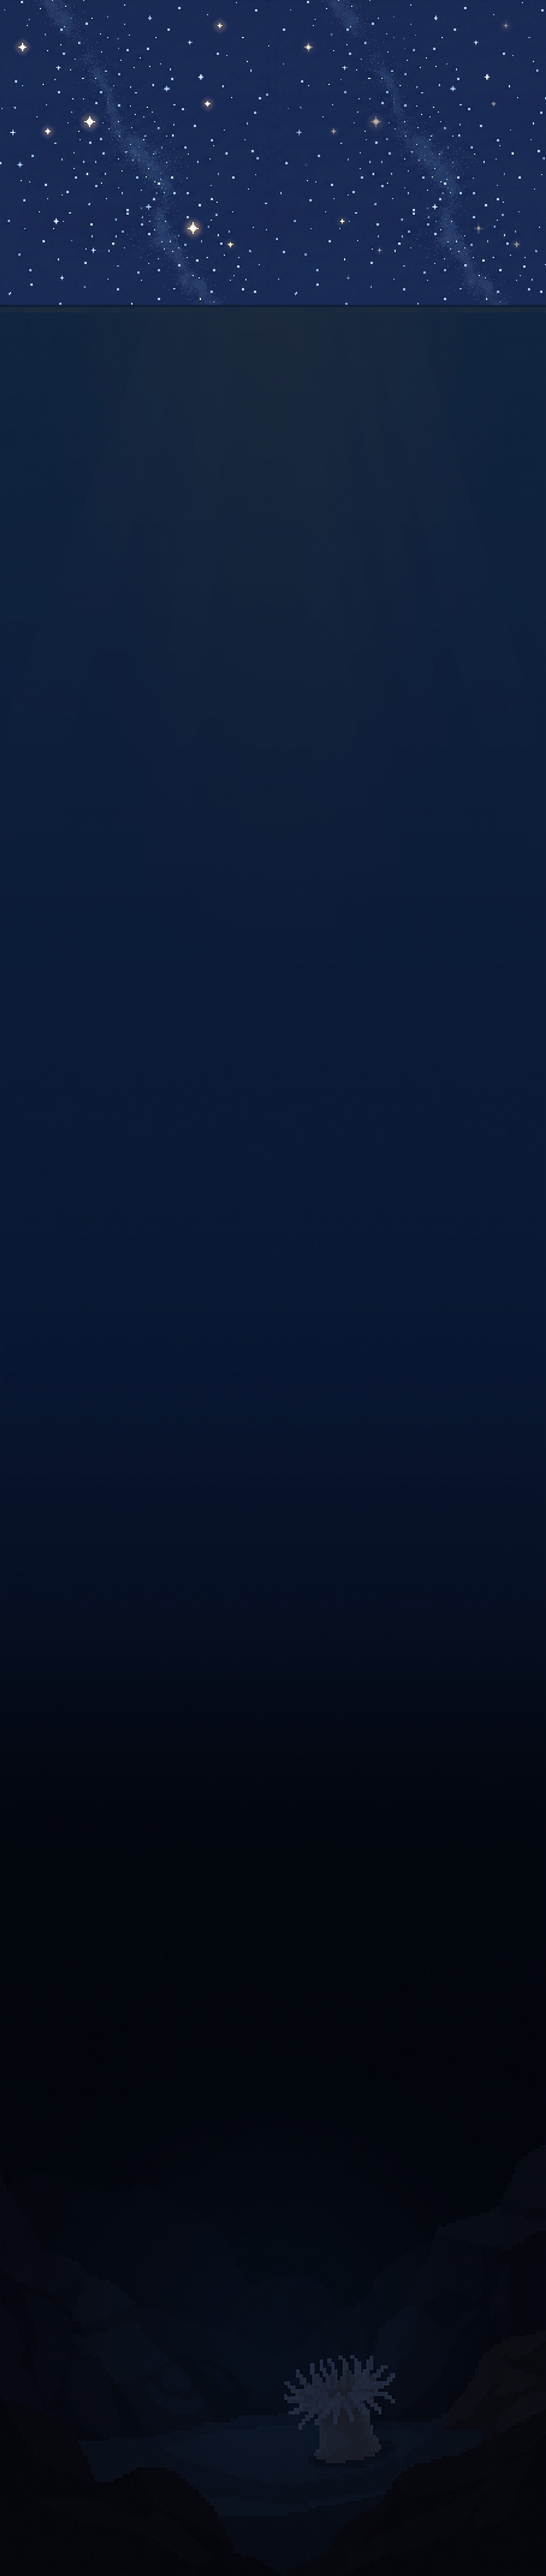
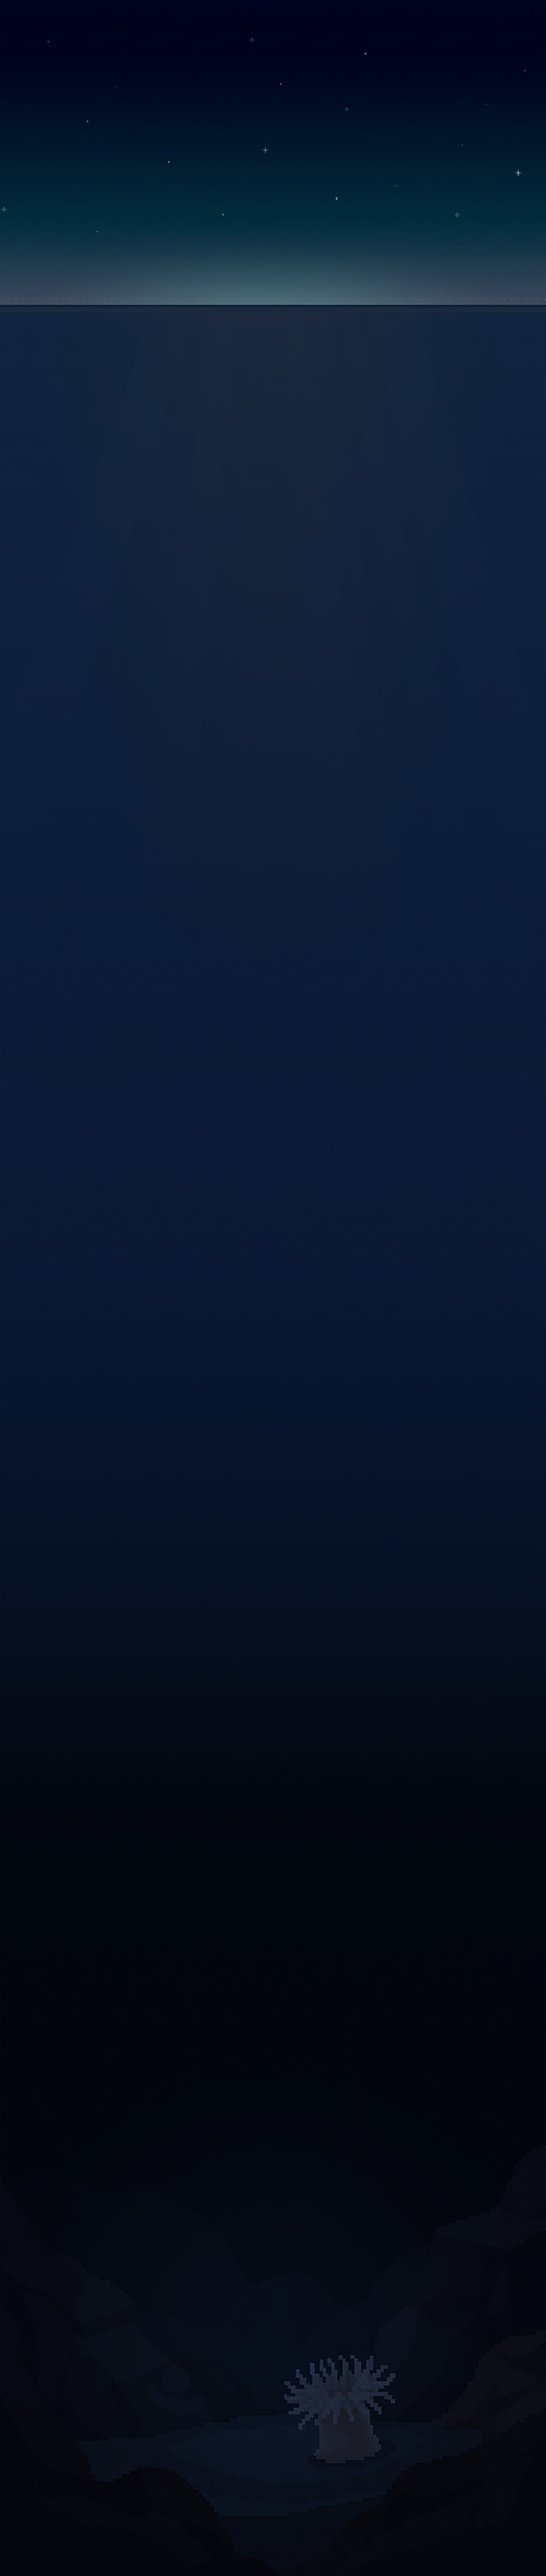
Maneter og djuphavsgjester, NAPP-plakat og måkene som forsvinner nedover
Maneter driver forbi i vannet — glassmanet i alle soner, brennmanet ned til
Dypt. De pulserer med klokka, svaier med strømmen og ligger svakt i miksen
(20–38 %) så fisken beholder hovedrollen.

Fjerne silhuetter på Dypt og Djuphavet: ubåt 1 av 1000 kast, hval 1 av 250.
Ett terningkast per utkast, armert ved kastet og vist når sluken er nede.

Lyd: overflatemiksen følger nå dybden jevnt i stedet for en av/på-bryter.
Måkeloopen stoppes helt når sluken er drøyt halvveis nede og starter igjen
på vei opp. Bølgeskvulpet over vann er dempet 15 %.

NAPP-plakaten spretter opp midt i bildet når fisken hogger, med mild skygge.
Beskjeden mens snøret står ute er flyttet til midten av skjermen i smal spalte.

Rustens agn selges i boks og krukke, men henger nå som ekte agn på kroken.

Dybdebrikkene får ekte luft: bredden følger teksten i stedet for å deles likt,
så «Djuphavet» ikke lenger klemmes mot kantene. Målt på 320–560 px.

Nye nattehimler for nedstigning 3 og 4 — vannlinja ligger fortsatt på rad 894.

Changed region(s): [[0.0, 0.0, 1.0, 0.1246]]

diff --git a/fiske.html b/fiske.html
@@ -89,11 +89,11 @@
   .depthsel{display:flex;gap:6px;background:rgba(18,58,71,.72);padding:5px;border-radius:12px;
     width:min(90%,340px);min-width:0;box-sizing:border-box;justify-content:space-between} /* samme bredde som «Kast ut» (min-width:0 hindrer at teksten sprenger boksen) */
   .depthsel button{border:0;background:transparent;color:#cfe6e2;font-weight:700;padding:9px 6px;border-radius:9px;cursor:pointer;font-size:17px;font-family:var(--font);line-height:1.1;
-    flex:1;min-width:0}
+    flex:1 1 auto;min-width:0;white-space:nowrap} /* auto-basis: bredden følger teksten, resten deles likt */
   .depthsel button small{display:block;font-size:12px;font-weight:600;opacity:.85;margin-top:2px}
   .depthsel button.on{background:var(--paper);color:var(--ink)}
   .depthsel button.locked{opacity:.4}
-  .depthsel.four button{padding:8px 7px;font-size:15px}
+  .depthsel.four button{padding:8px 8px;font-size:15px}
   .depthsel.four button small{font-size:11px}
   #sea.fishing #depthsel,#sea.fishing #potRow{display:none} /* snøret er ute — ned med valgene til fisken er i båten */
   #hud{transition:opacity .45s ease}
@@ -101,6 +101,25 @@
   #sea.fishing #notice{opacity:0;transition:opacity .3s}
   .actionbtn{width:min(90%,340px);box-sizing:border-box;text-align:center;padding-top:19px;padding-bottom:19px;font-size:18px}
   .hint{color:#eaf3ee;font-family:var(--mono);font-size:16px;font-weight:600;text-shadow:0 1px 3px #000a;min-height:20px;text-align:center}
+  /* Mens snøret står ute flytter beskjeden seg til midten av skjermen — smal spalte, klar av fisken nede ved sluken */
+  #hintMid{display:none}
+  #sea.fishing #hintMid{display:block;position:absolute;left:50%;top:50%;transform:translate(-50%,-50%);
+    width:min(14em,72%);z-index:6;pointer-events:none;margin:0;font-size:16px;line-height:1.45;
+    text-shadow:0 2px 6px #000c,0 0 16px #000a}
+  #sea.fishing .bottom #hint{display:none}
+  /* NAPP-plakat: eierens grafikk spretter opp midt i bildet i det fisken hogger (tekst-fallback hvis fila mangler) */
+  #nappSplash{position:absolute;left:50%;top:50%;width:min(86%,460px);z-index:9;pointer-events:none;
+    opacity:0;transform:translate(-50%,-50%) scale(.55);image-rendering:pixelated;
+    filter:drop-shadow(0 7px 9px rgba(0,0,0,.38))} /* mild skygge så plakaten løfter seg fra vannet */
+  #nappSplash.on{animation:nappPop 1.25s cubic-bezier(.2,1.4,.4,1) forwards}
+  @keyframes nappPop{
+    0%{opacity:0;transform:translate(-50%,-50%) scale(.55)}
+    22%{opacity:1;transform:translate(-50%,-50%) scale(1.09)}
+    34%{transform:translate(-50%,-50%) scale(1)}
+    72%{opacity:1;transform:translate(-50%,-50%) scale(1)}
+    100%{opacity:0;transform:translate(-50%,-50%) scale(1.06)}}
+  @media (prefers-reduced-motion:reduce){ #nappSplash.on{animation-duration:1.25s;animation-name:nappFade} }
+  @keyframes nappFade{0%{opacity:0}15%{opacity:1;transform:translate(-50%,-50%) scale(1)}72%{opacity:1;transform:translate(-50%,-50%) scale(1)}100%{opacity:0;transform:translate(-50%,-50%) scale(1)}}
 
   /* Kamp-UI: rund snelle midt på, spenn til venstre og dybde til høyre — i skjermkantene */
   :root{--snelle:min(28vw,117px)} /* snella er nedjustert tre ganger etter tilbakemelding (fra 46vw/190px) */
@@ -205,6 +224,7 @@
     #sea .bottom{gap:4px;padding-bottom:calc(6px + env(safe-area-inset-bottom))}
     #rekModal,#catchModal{padding-bottom:calc(6px + env(safe-area-inset-bottom))}
     .hint{font-size:13px;margin:0}
+    #sea.fishing #hintMid{font-size:15px}
     .actionbtn{padding:11px 18px;font-size:15px} }
   .slot.locked{opacity:.72}
   .slot.locked .nm{color:var(--ink-soft)}
@@ -250,9 +270,9 @@
   /* Mobil: HUD fikk ikke plass til 4 chips + 5 ikoner på én rad → chips rad 1, ikoner rad 2 */
   @media (max-width:520px){
     .depthsel{gap:4px} /* bredden styres av basisregelen — lik «Kast ut» */
-    .depthsel button{flex:1;font-size:19px;padding:12px 3px}
-    .depthsel.four button{font-size:15px;padding:12px 1px}
-    .depthsel.four button small{font-size:13px}
+    .depthsel button{flex:1 1 auto;font-size:19px;padding:12px 8px}
+    .depthsel.four button{font-size:14px;padding:12px 6px}
+    .depthsel.four button small{font-size:12px}
     .depthsel button small{font-size:14px;margin-top:2px}
     #hud{flex-wrap:wrap;gap:6px;padding:8px 8px}
     #hud .chip{padding:8px 11px;font-size:14px}
@@ -264,6 +284,11 @@
     #notice{font-size:18px}
   }
   @media (max-width:389px){ /* 🔥-brikken skal ikke tvinge en tredje HUD-rad på smale telefoner */
+    .depthsel{gap:3px;padding:4px}
+    .depthsel button{font-size:16px;padding:12px 6px}
+    .depthsel button small{font-size:13px}
+    .depthsel.four button{font-size:12px;padding:12px 4px}
+    .depthsel.four button small{font-size:11px}
     #hud .chip{padding:8px 8px}
     #hud .fuel{width:40px}
     #hud #hudStreakChip{padding:0 2px;gap:2px;background:none;box-shadow:none;backdrop-filter:none;
@@ -309,6 +334,8 @@
       <button class="iconbtn" id="toMenu" title="Hjem til naustet"><img src="spill/assets/knapp-naust.png" alt="Hjem" style="max-height:29px;max-width:29px;image-rendering:pixelated" onerror="this.outerHTML='✕'"></button>
     </div>
     <div id="notice"></div>
+    <p class="hint" id="hintMid"></p>
+    <img id="nappSplash" alt="" src="spill/assets/splash-napp.png" onerror="this.dataset.mangler='1'">
     <div class="bottom">
       <p class="hint" id="hint">Velg dybde og kast ut.</p>
       <div id="reelui">
@@ -507,7 +534,8 @@ var Snd=(function(){
   function startLoop(name){ var c=AC(),L=loops[name]; if(!c||!L||L.node||muted||!L.want)return; var buf=buffers[name]; if(!buf)return;
     var s=c.createBufferSource(); s.buffer=buf; s.loop=true; var g=c.createGain(); g.gain.value=L.vol; s.connect(g); g.connect(c.destination); try{s.start()}catch(e){} L.node={s:s,g:g}; }
   function stopLoop(name){ var L=loops[name]; if(L&&L.node){ try{L.node.s.stop()}catch(e){} L.node=null; } }
-  var regnNa=false, dykket=false; // vær- og dykketilstand styrer miksen
+  var regnNa=false, dykket=false, dypNa=0; // vær- og dykketilstand styrer miksen (dypNa: hvor langt nede sluken er, 0–1)
+  var HAV=0.187, HAV_REGN=0.085; // bølgeskvulpet over vann — dempet 15 % etter tilbakemelding
   function wantLoop(name,on){ var L=loops[name]; if(!L)return; L.want=on; if(on)startLoop(name); else stopLoop(name); }
   function oneShot(name){ var c=AC(),o=ONESHOT[name]; if(!c||!o||muted)return; var buf=buffers[name]; if(!buf)return;
     var s=c.createBufferSource(); s.buffer=buf; var g=c.createGain(); g.gain.value=o.vol; s.connect(g); g.connect(c.destination); try{s.start()}catch(e){} }
@@ -521,10 +549,10 @@ var Snd=(function(){
     unlock:function(){ var c=AC(); if(c&&c.state!=="running"){try{c.resume()}catch(e){}} loadAll(); },
     isMuted:function(){return muted;},
     setMuted:function(m){ muted=m; try{localStorage.setItem("storkveita-muted",m?"1":"0")}catch(e){}; if(theme)theme.muted=m; if(m){stopAllLoops(); motorStop(0);} else restartWanted(); },
-    ambienceOn:function(){ loadAll(); dykket=false; this.settLoopVol("sea",regnNa?0.10:0.22); this.settLoopVol("bird",0.22); wantLoop("sea",true); wantLoop("bird",true); },
+    ambienceOn:function(){ loadAll(); dykket=false; dypNa=0; this.settLoopVol("sea",regnNa?HAV_REGN:HAV); this.settLoopVol("bird",0.22); wantLoop("sea",true); wantLoop("bird",true); },
     ambienceOff:function(){ dykket=false; wantLoop("sea",false); wantLoop("bird",false); wantLoop("undervann",false); wantLoop("reel",false); wantLoop("regn",false); wantLoop("vindL",false); },
     vaerLyd:function(regnOn,vindOn){ loadAll(); wantLoop("regn",!!regnOn); wantLoop("vindL",!!vindOn); regnNa=!!regnOn;
-      if(!dykket)this.settLoopVol("sea", regnOn?0.10:0.22); }, // regnet skal eie lydbildet i uvær (men undervann eier det enda mer)
+      if(!dykket)this.settLoopVol("sea", regnOn?HAV_REGN:HAV); }, // regnet skal eie lydbildet i uvær (men undervann eier det enda mer)
     torden:function(){ var c=["torden1","torden2","torden3"].filter(function(k){return buffers[k]}); if(c.length)oneShot(c[(Math.random()*c.length)|0]); },
     munnspill:function(){ var c=["munnspill1","munnspill2"].filter(function(k){return buffers[k]}); if(c.length)oneShot(c[(Math.random()*c.length)|0]); },
     reelSound:function(on){ wantLoop("reel",!!on); },
@@ -532,14 +560,23 @@ var Snd=(function(){
     settLoopVol:function(name,vol){ var L=loops[name]; if(!L)return; L.vol=vol; if(L.node&&L.node.g)L.node.g.gain.value=vol; },
     fadeLoopVol:function(name,vol,sek){ var L=loops[name], c=AC(); if(!L)return; L.vol=vol;
       if(L.node&&L.node.g&&c){ try{ L.node.g.gain.setTargetAtTime(vol,c.currentTime,Math.max(0.08,sek||0.8)/3); }catch(e){ L.node.g.gain.value=vol; } } },
-    dykk:function(ned){ ned=!!ned; if(ned===dykket)return; dykket=ned; loadAll(); // sluken går i vannet: over vann tones ned, undervannslyden opp
-      this.fadeLoopVol("sea",  ned?0.05:(regnNa?0.10:0.22), 1.0);
-      this.fadeLoopVol("bird", ned?0.02:0.22, 1.0);
-      if(ned){ wantLoop("undervann",true); var L=loops.undervann, c=AC();
-        if(L.node&&L.node.g&&c){ try{ L.node.g.gain.setValueAtTime(0.0001,c.currentTime); }catch(e){} }
-        this.fadeLoopVol("undervann",0.34,1.4); }
-      else { this.fadeLoopVol("undervann",0.0001,0.9);
-        setTimeout(function(){ if(!dykket)wantLoop("undervann",false); },1200); } },
+    // Sluken synker: overflatelyden tones ned og undervannslyden opp — jevnt med dybden, ikke som en bryter.
+    // Måkene er HELT borte (loopen stoppes) når sluken er drøyt halvveis nede; de kommer tilbake når du sveiver opp.
+    dykk:function(ned,dyp){ ned=!!ned;
+      dyp = ned ? Math.max(0,Math.min(1, dyp||0)) : 0;
+      if(ned!==dykket){ dykket=ned; loadAll(); dypNa=-1;
+        if(ned){ wantLoop("undervann",true); var L=loops.undervann, c=AC();
+          if(L.node&&L.node.g&&c){ try{ L.node.g.gain.setValueAtTime(0.0001,c.currentTime); }catch(e){} } }
+        else { this.fadeLoopVol("undervann",0.0001,0.9);
+          setTimeout(function(){ if(!dykket)wantLoop("undervann",false); },1200); } }
+      if(Math.abs(dyp-dypNa)<0.02)return;
+      dypNa=dyp;
+      var over=Math.max(0,1-dyp/0.55), maake=0.22*over*over;
+      var havOver=regnNa?HAV_REGN:HAV;
+      this.fadeLoopVol("sea", havOver+(0.045-havOver)*dyp, 0.5);
+      this.fadeLoopVol("bird", maake, 0.5);
+      wantLoop("bird", maake>0.004);
+      if(ned)this.fadeLoopVol("undervann", 0.05+0.29*dyp, 0.6); },
     themeOn:function(){ if(!theme){ theme=new Audio("spill/lyd/lobby-tema.mp3"); theme.loop=true; theme.volume=0.45; } theme.muted=muted; theme.play().catch(function(){}); },
     themeOff:function(){ if(theme)theme.pause(); },
     click:function(){ if(buffers.klikk1||buffers.klikk2){ altClick=!altClick; oneShot(altClick&&buffers.klikk1?"klikk1":"klikk2"); } else beep(430,0.05,"square",0.05,320); },
@@ -679,9 +716,15 @@ function agnDagsStatus(){ // Rusten går tom for én type og setter en annen på
 function agnPris(a){ return agnDagsStatus().salg===a.k?Math.max(5,Math.round(a.pris*0.7/5)*5):a.pris; }
 function bildeFil(n){ return n.indexOf(".")>=0?n:n+".png"; } // gif-er oppgis med endelse
 var rigImg={}; // sluk-/agnbilder til tegning på snøret (lastes ved behov)
+// Rusten selger agnet i boks og krukke — men det er innholdet som skal henge på kroken.
+// Mangler kroken-varianten, faller vi tilbake til butikkbildet (auto-plugg når eier lager fila).
+var KROKAGN={rustenspesial:"agn-rusten-spesial-paa-kroken",rustensuper:"agn-rusten-super-paa-kroken"};
 function rigBilde(){ var a=(typeof aktivAgn==="function")&&aktivAgn(), u=(typeof aktivSluk==="function")&&aktivSluk();
-  var fil=a?bildeFil(agnImg(a)):(u?bildeFil(u.img):null); if(!fil)return null;
-  if(!rigImg[fil]){ var im=new Image(); im.src="spill/assets/"+fil; rigImg[fil]=im; }
+  var fil=a?bildeFil(KROKAGN[a.k]||agnImg(a)):(u?bildeFil(u.img):null); if(!fil)return null;
+  if(!rigImg[fil]){ var im=new Image();
+    if(a&&KROKAGN[a.k]){ var res="spill/assets/"+bildeFil(agnImg(a));
+      im.onerror=function(){ this.onerror=null; this.src=res; }; }
+    im.src="spill/assets/"+fil; rigImg[fil]=im; }
   var b=rigImg[fil]; return (b.complete&&b.naturalWidth)?b:null; }
 function aktivAgn(){ return P&&P.rig&&P.rig!=="sluk"?agnDef[P.rig]:null; }
 function rigNavn(){ var a=aktivAgn(); if(a)return a.n; var u=aktivSluk(); return u?u.n:"Sluk"; }
@@ -853,7 +896,13 @@ var boatIn=1, fisherT=1; // intro i sjøen: båten glir på plass (0→1), så k
 var flee=null; // mistet fisk som stikker av før kameraet går hjem
 var serpent=null, serpentCd=0; // påskeegg: sjøormen — et ultrasjeldent glimt langt der nede i Dypt
 
-function setHint(t){msg=t; $("#hint").textContent=t}
+function setHint(t){msg=t; $("#hint").textContent=t; var m=$("#hintMid"); if(m)m.textContent=t;}
+function nappKlar(){ var i=$("#nappSplash"); return !!(i && !i.dataset.mangler && i.complete && i.naturalWidth); }
+var nappT=null;
+function visNapp(){ var i=$("#nappSplash"); if(!i)return;
+  i.classList.remove("on"); void i.offsetWidth;
+  i.classList.add("on"); clearTimeout(nappT);
+  nappT=setTimeout(function(){ i.classList.remove("on"); },1300); }
 var nysCool=20; // første nys tidligst etter 20 s i båten
 function erfaren(){ if(!P||!P.caught)return false; var n=0; for(var k in P.caught){ n+=(P.caught[k]&&P.caught[k].count)||0; if(n>=20)return true; } return false; }
 var noticeT=null;
@@ -880,7 +929,7 @@ function setDepth(d){
   if(d===3){ if(!vinsjKlar())return;
     if(!P.vinsj){ setHint("Vinsj og dyphavsrigg trengs for djuphavet (300–500 m) — kjøp i butikken 🛒"); return; } }
   else if(d>P.rod){ setHint(RODS[d].n+" trengs for "+ZONE[d].toLowerCase()+" ("+DEPM[d]+") — kjøp i butikken 🛒"); return; }
-  depth=d; camY=camHome(); // ny sone → vannlinja på samme skjermhøyde
+  depth=d; camY=camHome(); maneter.length=0; silh=null; silhKlar=null; // ny sone → vannlinja på samme skjermhøyde, og drivgodset hører til forrige sone
   updateRigChip();
   document.querySelectorAll("#depthsel button").forEach(function(x){x.classList.toggle("on",+x.dataset.d===d)});
   if(phase==="idle") setHint(erfaren()?"":ZONE[d]+" "+DEPM[d]+" valgt. Kast ut.");
@@ -974,7 +1023,7 @@ function cast(){
   else if(smorPct()<=0 && P.svc%45===11) notice("Skroget er begrodd og drar ekstra bensin — bunnsmørning hos Propell-Kjell 🐚");
   else if(Date.now()>P.havnNeste && P.svc%45===22) notice("Ørnes Båtforening purrer på havneavgiften ⚓ (betal hos Propell-Kjell)");
   P.fuel-=needF; hud(); saveAll(); Snd.cast(); castT=0.45; // ETT kast-animasjon
-  phase="sink"; descend=0;
+  phase="sink"; descend=0; rullSilhuett();
   var g=colGeom(), mn=Math.min(W,H);
   if(g){ lureW=g.wl+mn*0.05; lureTargetW=g.imgH*LTF[depth]-mn*0.04; // fra rett under overflata → like over bunn-dekoren
     camBottom=Math.min(g.maxScroll, Math.max(camHome(), lureTargetW-H*0.56));
@@ -1116,7 +1165,9 @@ function commitBite(){
   var ag=aktivAgn(); if(ag){ P.agn[ag.k]=Math.max(0,(P.agn[ag.k]||0)-1); updateRigChip(); hookedSuper=!!ag.superLegend; } else hookedSuper=false; // fisken tok agnet — brukt uansett utfall
   hooked=cf; hookedLen=(sceneFish&&sceneFish.sizeLen)||Math.round(rnd(cf.len[0],cf.len[1])); phase="bite"; hookWindow=1.6;
   if(!sceneFish)sceneFish={f:cf,x:(lureSX/W)||0.5,y:lureTargetY}; else sceneFish.committing=true;
-  setHint(erfaren()?"":"NAPP! Hold inne snella og dra inn! 🐟"); setAction("SVEIV (hold)",true); Snd.bite();
+  if(nappKlar()){ visNapp(); setHint(""); }
+  else setHint(erfaren()?"":"NAPP! Hold inne snella og dra inn! 🐟");
+  setAction("SVEIV (hold)",true); Snd.bite();
   if(navigator.vibrate)navigator.vibrate(30);
 }
 var hookFace=false, storjeTried=false, runT=0, runPow=0, hookedLen=0, hookedSuper=false; // + utras + kroket lengde + superagn-bedøvelse
@@ -2148,6 +2199,17 @@ var buoyGull=null; // måke som tar seg en pust på en av blåsene
 var bubbleImg=[]; for(var _bi=1;_bi<=8;_bi++){ var _bm=new Image(); _bm.src="spill/assets/luftboble-"+_bi+".png"; bubbleImg.push(_bm); }
 var bubbles=[]; // små luftbobler som stiger (som snø, motsatt vei)
 var dogImg=[]; ["glad","kikker","tenker"].forEach(function(n){ var im=new Image(); im.src="spill/assets/hund-blindpassasjer-"+n+".png"; dogImg.push(im); });
+// DRIVENDE MANETER + FJERNE SILHUETTER: rein stemning, ingen spillmekanikk (kan aldri kroke eller skremme fisk)
+var MANET=[{k:"drift-glassmanet",z:[0,1,2,3],w:1.0,br:0.058,puls:0.08},
+           {k:"drift-brennmanet",z:[0,1,2],  w:0.55,br:0.050,puls:0.05}];
+var manetImg={};
+MANET.forEach(function(m){ var im=new Image(); im.onerror=function(){}; im.src="spill/assets/"+m.k+".png"; manetImg[m.k]=im; });
+var maneter=[];
+var SILH=[{k:"silhuett-ubaat",z:[2,3],br:0.50,op:0.34,sjanse:1/1000,hoyre:true},
+          {k:"silhuett-hval", z:[2,3],br:0.62,op:0.26,sjanse:1/250}];
+var silhImg={};
+SILH.forEach(function(x){ var im=new Image(); im.onerror=function(){}; im.src="spill/assets/"+x.k+".png"; silhImg[x.k]=im; });
+var silh=null, silhKlar=null;
 function newFlyGull(yMin,yMax){ var dir=Math.random()<0.5?1:-1, far=Math.random()<0.5; // «far» = mindre + svakere opasitet → ser lengre bak ut (dybde)
   return {x:dir<0?1.15:-0.15, y:yMin+Math.random()*(yMax-yMin), vx:dir*(0.025+Math.random()*0.04), sc:far?0.4+Math.random()*0.2:0.6+Math.random()*0.35, op:far?0.45+Math.random()*0.25:0.92+Math.random()*0.08, ph:Math.random()*8, fr:6+Math.random()*4, glideT:0, flapT:3+Math.random()*5}; }
 function gullFrame(g,dt){ // 4-frames vingeslag, men glir 2–4 s på frame 03 (index 2) av og til
@@ -2233,7 +2295,7 @@ function loop(now){
   else if(fisherT<1) fisherT=Math.min(1,fisherT+dt/0.5);
   if(document.querySelector("#catchModal").classList.contains("on")) liftT+=dt; else liftT=0; // løft-fangst spilles ÉN gang, nullstilles mellom fangster
   if(lgCtx && $("#menu").classList.contains("on")){ lgCtx.clearRect(0,0,lgW,lgH); drawGullField(lgCtx,lgW,lgH,lobbyGulls,dt,lgH*0.06,lgH*0.34,3,lobbySpawn,0); } // måker over tittelen i lobbyen
-  if($("#sea").classList.contains("on")){ drawScene(dt); tegnVaer(dt); snelleSpinn(dt); Snd.dykk(phase!=="idle"); $("#sea").classList.toggle("fishing", phase!=="idle");
+  if($("#sea").classList.contains("on")){ drawScene(dt); tegnVaer(dt); snelleSpinn(dt); Snd.dykk(phase!=="idle", dykkAndel()); $("#sea").classList.toggle("fishing", phase!=="idle");
     if(boatIn>=1&&fisherT>=1){ nysCool-=dt; if(nysCool<=0&&Math.random()<dt/140){ var rl=Math.random();
       if(rl<0.06){ Snd.fiskerFis(); dogShow(1,3); }
       else if(rl<0.40) Snd.fiskerHark();
@@ -2342,10 +2404,14 @@ function drawScene(dt){
     }
   } else buoyGull=null;
   var colTop=Math.max(0,top);
+  // hval/ubåt langt der bak — bakerst av alt i vannet
+  drawSilhuett(dt);
   // små luftbobler som stiger opp gjennom vannet (fader ut før overflata)
   drawBubbles(dt, Math.max(0,wlY), wlY);
   // ambient silhuett-fisk som krysser skjermen (1–5, 40–80 % opasitet)
   drawAmbient(dt,colTop);
+  // maneter driver forbi foran fiskestimen
+  drawManeter(dt);
   if(flee) drawSwim(W*flee.x, flee.wy-camY, flee.f, 0, flee.vx>0, false, flee.len); // den tapte fisken stikker av
   // sluk-posisjon: verdenskoordinat minus kamera (sink/wait/bite/reel); hviler under båten ellers
   var ey;
@@ -2425,6 +2491,11 @@ function drawSwim(x,y,f,angle,flip,gold,len,munnPivot){ var im=fishImg[f.k], tw=
   cx.beginPath(); cx.moveTo(s*0.85,0); cx.lineTo(s*1.15,-s*0.35); cx.lineTo(s*1.15,s*0.35); cx.closePath(); cx.fill();
   cx.fillStyle="#fff"; cx.beginPath(); cx.arc(-s*0.55,-s*0.1,s*0.09,0,7); cx.fill();
   cx.fillStyle="#111"; cx.beginPath(); cx.arc(-s*0.57,-s*0.1,s*0.045,0,7); cx.fill(); cx.restore(); }
+function dykkAndel(){
+  if(phase==="idle")return 0;
+  var g=colGeom(); if(!g||!(lureTargetW>g.wl))return 1;
+  return Math.max(0, Math.min(1, (lureW-g.wl)/(lureTargetW-g.wl)));
+}
 function pickAmbient(){
   var kveiteFinnes=(hooked&&hooked.trophy)||(sceneFish&&sceneFish.f.trophy)||ambient.some(function(a){return a.f&&a.f.trophy});
   var tot=0, ws=FISH.map(function(f){ var k=(f.trophy&&kveiteFinnes)?0:(f.rar===2?0.06:f.rar===1?0.35:1)*f.w; tot+=k; return k; });
@@ -2443,6 +2514,62 @@ function drawAmbient(dt,colTop){
     cx.save(); cx.globalAlpha=a.op; cx.translate(ax,ay); if(a.vx>0)cx.scale(-1,1);
     cx.drawImage(im,-tw/2,-th/2,tw,th); cx.restore();
   });
+}
+function nyManet(){
+  var kand=MANET.filter(function(m){ return m.z.indexOf(depth)>=0 && manetImg[m.k].complete && manetImg[m.k].naturalWidth; });
+  if(!kand.length)return null;
+  var tot=0; kand.forEach(function(m){ tot+=m.w; });
+  var r=Math.random()*tot, m=kand[kand.length-1];
+  for(var i=0;i<kand.length;i++){ r-=kand[i].w; if(r<=0){ m=kand[i]; break; } }
+  var g=colGeom(), dir=Math.random()<0.5?1:-1;
+  var top=Math.max(g?g.wl+30:H*0.35, camY), bot=camY+H;
+  return {m:m, x:dir<0?1.18:-0.18, wy:top+(bot-top)*(0.12+Math.random()*0.76),
+    vx:dir*(0.006+Math.random()*0.012), vy:(Math.random()-0.5)*9,
+    op:0.20+Math.random()*0.18, sc:0.8+Math.random()*0.45, ph:Math.random()*7, t:Math.random()*7};
+}
+function drawManeter(dt){
+  // driver saktere enn fisken, pulserer med klokka og svaier med strømmen
+  if(maneter.length<3 && Math.random()<dt*(maneter.length?0.05:0.22)){ var nm=nyManet(); if(nm)maneter.push(nm); }
+  var mn2=Math.min(W,H);
+  for(var i=maneter.length-1;i>=0;i--){
+    var a=maneter[i]; a.t+=dt; a.x+=a.vx*dt; a.wy+=a.vy*dt;
+    if(a.x<-0.32||a.x>1.32||a.wy<camY-90||a.wy>camY+H+90){ maneter.splice(i,1); continue; }
+    var im=manetImg[a.m.k]; if(!im.complete||!im.naturalWidth)continue;
+    var pu=Math.sin(a.t*1.5+a.ph)*a.m.puls, br=mn2*a.m.br*a.sc;
+    var tw=br*(1+pu*0.5), th=br*(im.naturalHeight/im.naturalWidth)*(1-pu);
+    cx.save(); cx.globalAlpha=a.op; cx.translate(W*a.x+Math.sin(a.t*0.6+a.ph)*6, a.wy-camY);
+    cx.drawImage(im,-tw/2,-th/2,tw,th); cx.restore();
+  }
+}
+function rullSilhuett(){
+  // ETT terningkast per utkast: ubåt 1 av 1000, hval 1 av 250 — begge kun på Dypt og Djuphavet.
+  // Trekningen armeres her og vises først når sluken har nådd bunnen (fase «wait»).
+  if(silh){ silhKlar=null; return; }
+  silhKlar=null;
+  for(var i=0;i<SILH.length;i++){
+    var x=SILH[i];
+    if(x.z.indexOf(depth)<0)continue;
+    if(Math.random()<x.sjanse){ silhKlar=x; break; }
+  }
+}
+function drawSilhuett(dt){
+  var fisker=(phase==="wait"||phase==="pilkfiske"||phase==="bite");
+  if(!silh){
+    if(!fisker||!silhKlar)return;
+    var im0=silhImg[silhKlar.k];
+    if(!im0.complete||!im0.naturalWidth)return;
+    var s2=silhKlar, dir=Math.random()<0.5?1:-1;
+    silhKlar=null;
+    silh={s:s2, x:dir<0?1.5:-0.5, vx:dir*(0.035+Math.random()*0.025), wy:camY+H*(0.62+Math.random()*0.26)};
+    return;
+  }
+  silh.x+=silh.vx*dt;
+  if(silh.x<-0.8||silh.x>1.8||silh.wy<camY-H*1.6||silh.wy>camY+H*2.6){ silh=null; return; }
+  var im2=silhImg[silh.s.k]; if(!im2.complete||!im2.naturalWidth)return;
+  var mn3=Math.min(W,H), tw2=mn3*silh.s.br, th2=tw2*im2.naturalHeight/im2.naturalWidth;
+  cx.save(); cx.globalAlpha=silh.s.op; cx.translate(W*silh.x, silh.wy-camY);
+  if((silh.vx>0)!==!!silh.s.hoyre)cx.scale(-1,1);
+  cx.drawImage(im2,-tw2/2,-th2/2,tw2,th2); cx.restore();
 }
 
 /* ---------- Input ---------- */
